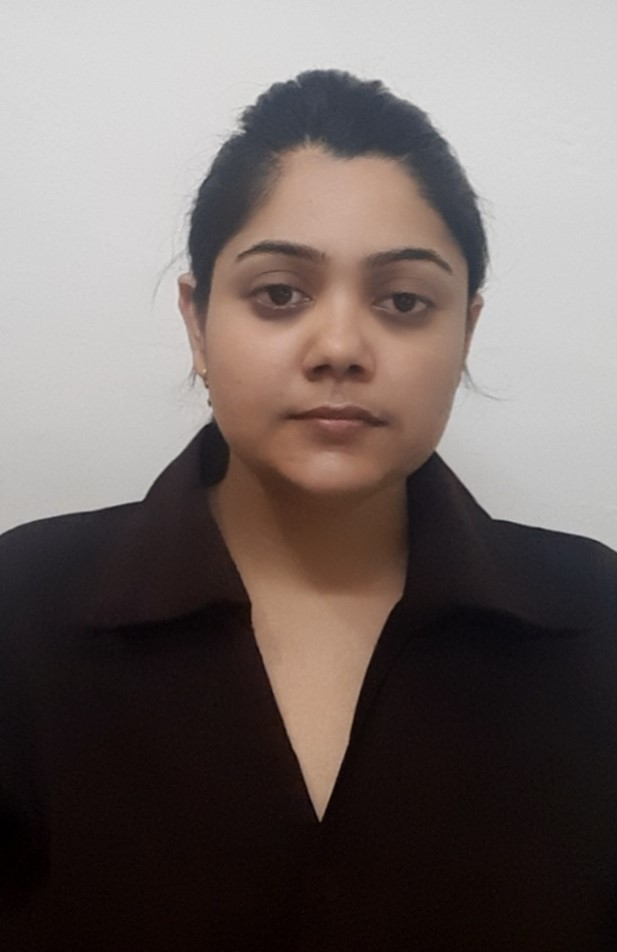
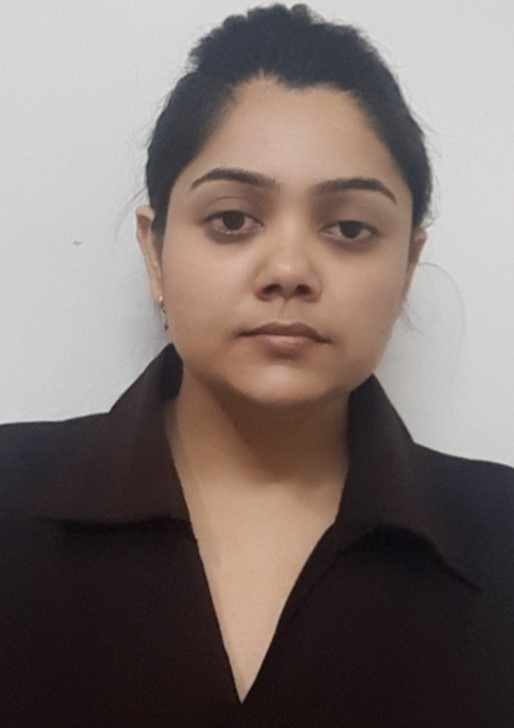
ll

Changed region(s): [[0.0, 0.0, 1.0, 0.967], [0.9961, 0.9368, 1.0, 0.9973], [0.0, 0.8462, 0.0311, 0.9066]]

diff --git a/index.html b/index.html
@@ -62,7 +62,7 @@
           </div>
           <div class="home__img">
 
-            <img src="./assets/img/RichaSInghImage.jpg" alt="" style=" border-radius: 50%; object-fit: cover;" class="home-img round-img" />
+            <img src="./assets/img/RichaSInghImage.jpg" alt="" class="home-img round-img" />
           </div>
 
           <div class="home__data">
